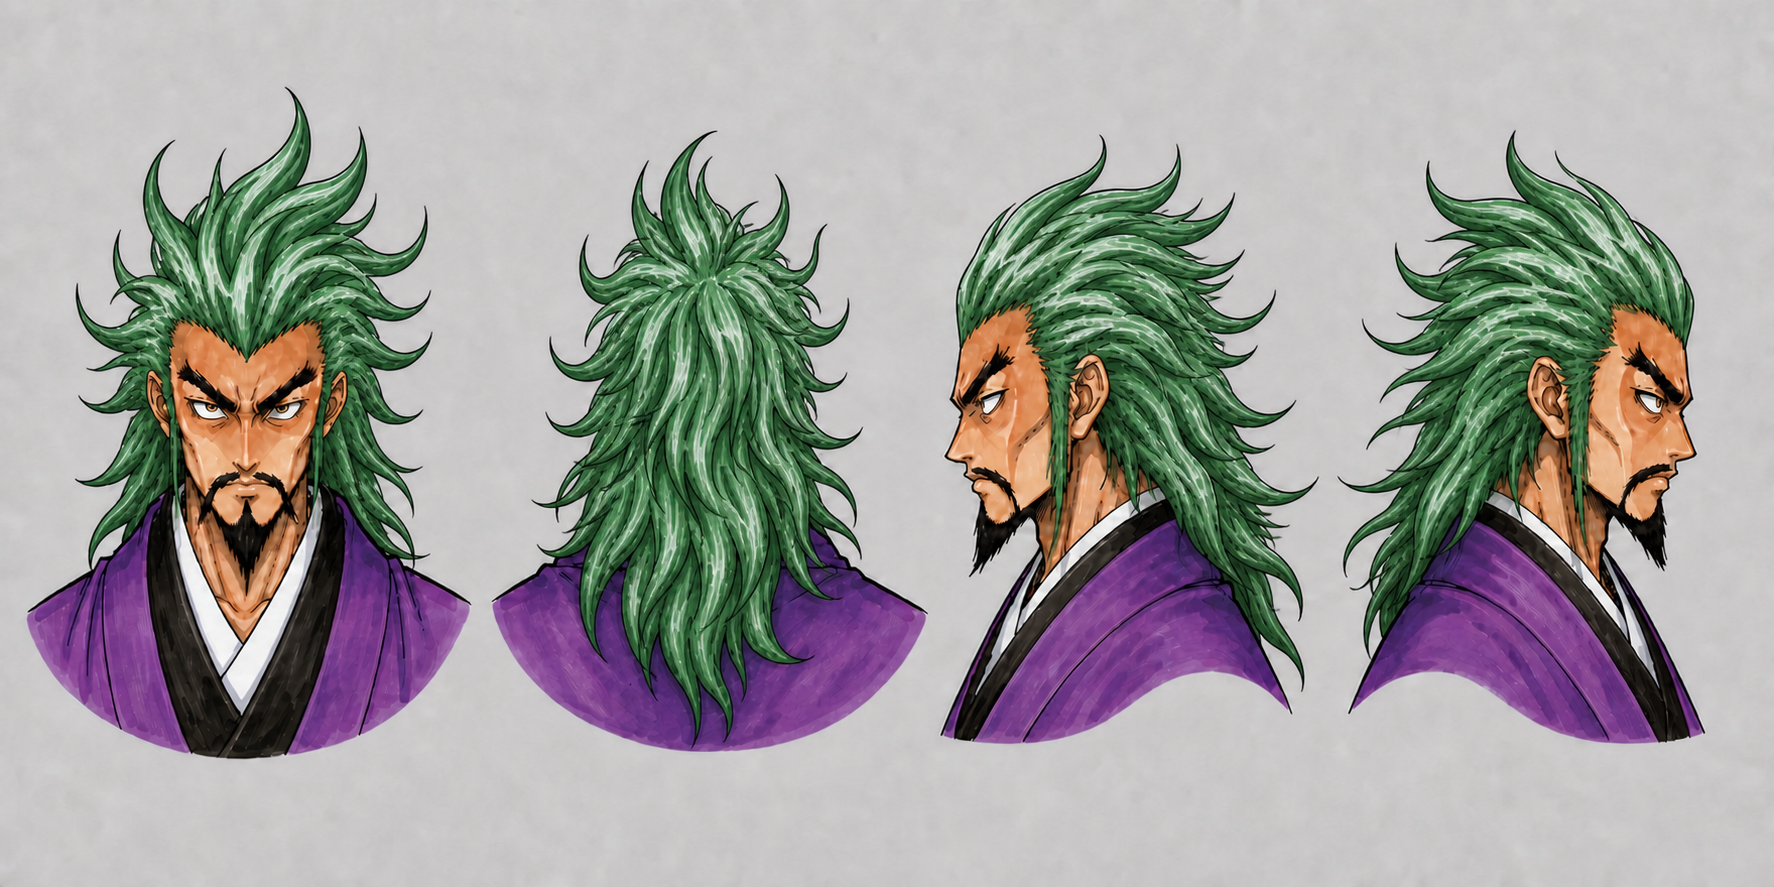
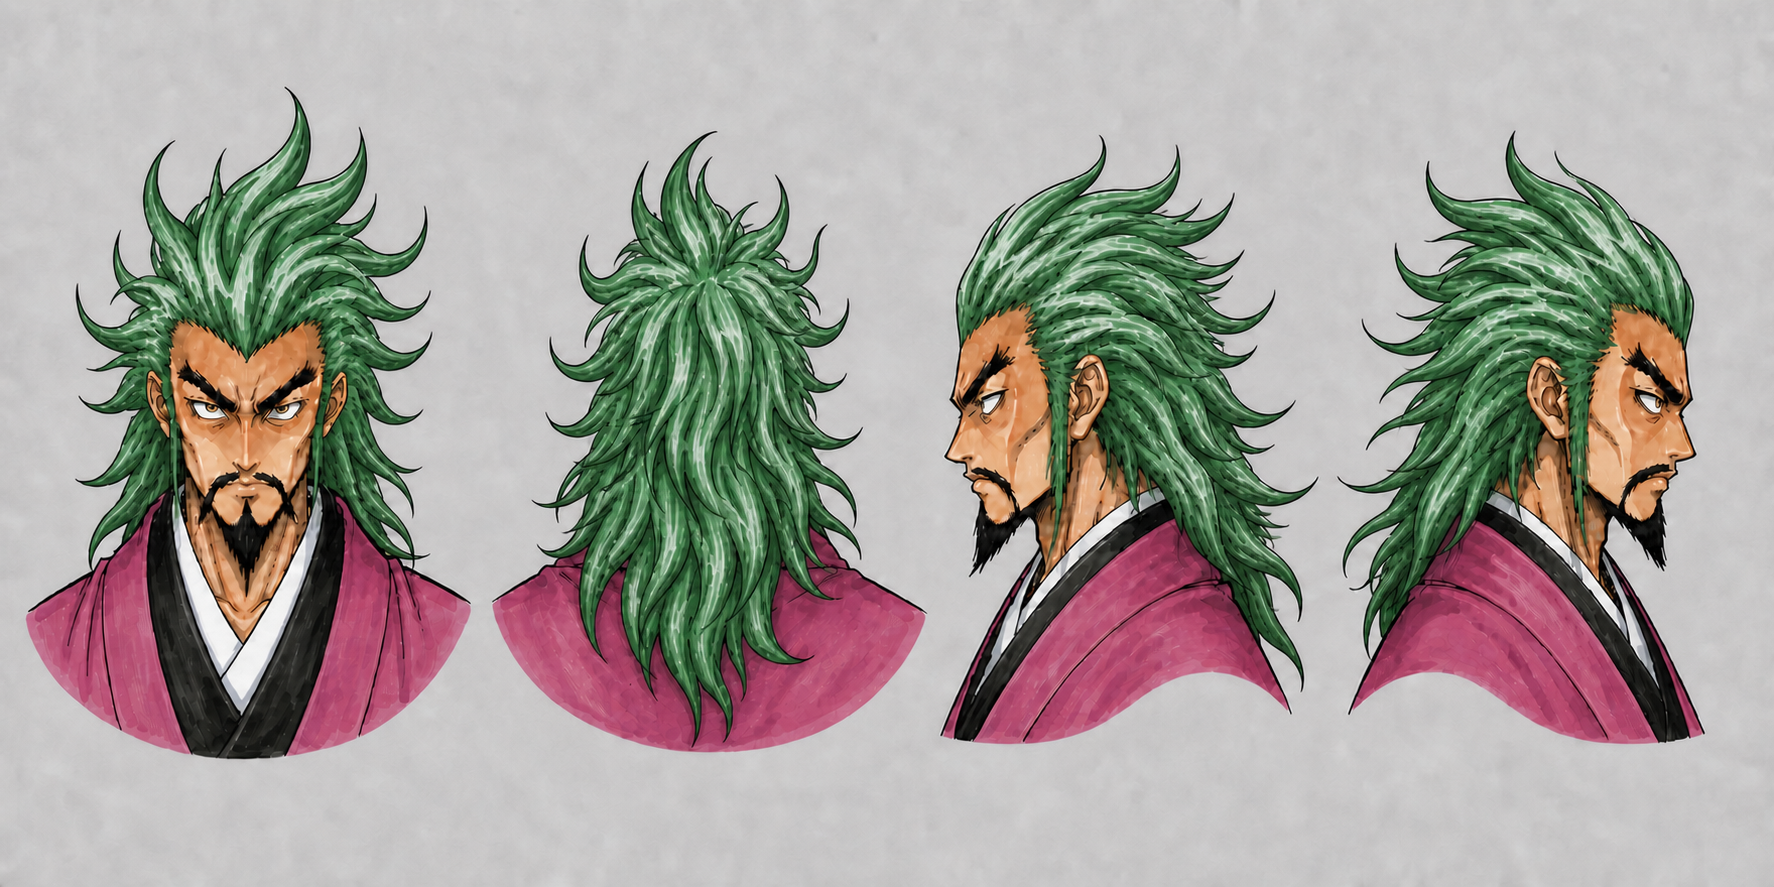
fix(004): 修正公孙胜设定图配色与人物参照
统一道袍为原卡洋红紫配色，并同步中立、原画姿态和头部设定图。\n\n更新兵器表中的正背人物与握持手臂，保留旧版资产和返修提示。

diff --git a/character-model-sheets/characters/004/review-notes.md b/character-model-sheets/characters/004/review-notes.md
@@ -70,3 +70,21 @@
 - [x] 发束仍保持成组可读，没有碎成大量互不连接的微小发丝；六视图与头部四视图使用一致的三维结构。
 - [x] 人物身份、脸型、年龄、胡型、袖口黑边、袖面八卦、左右后衣片、分割太极八卦、六视图与头部四视图顺序均保持不变。
 - 输出：`character-turnaround.png`、`head-sheet.png`；返修前版本分别保留为 `character-turnaround-v8.png`、`head-sheet-v4.png`；状态继续为 `generated`，等待用户批准。
+
+## 2026-08-22 道袍颜色局部返修
+
+- [x] 以 `images/004.png` 原卡为最高颜色依据，把外层道袍从偏冷蓝紫／皇家紫纠正为偏洋红的紫红色：玫红紫／洋红紫主体、洋红与粉紫亮部、酒紫／深紫结构暗部。
+- [x] 中立六视图、原画姿态版六视图与头部四视图肩部衣料均已同步返色；同一张表内色相与综合色阶保持一致。
+- [x] 只改外层道袍颜色；人物身份、脸、绿色头发、黑色八字胡和山羊胡、姿态、六视图与头部视图顺序、服装结构、褶皱、纹样、黑色包边、白色内袖、黄色腰带、淡黄色裤、绑腿、鞋履、剑、线稿、纹理、光照、画布和背景保持不变。
+- [x] 返修前版本分别保留为 `character-turnaround-v10.png`、`character-turnaround-original-pose-v2.png`、`head-sheet-v5.png`。
+- 输出：`character-turnaround.png`、`character-turnaround-original-pose.png`、`head-sheet.png`；状态继续为 `generated`，等待用户批准。
+- 返修提示记录：`robe-color-repair-prompt.txt`。
+
+## 2026-08-22 兵器表人物参照返修
+
+- [x] 右侧正面与背面人物比例参照已改为当前 `character-turnaround.png` 中的同一人物：四十多岁窄长成熟脸、裸头无帽、绿色长发、黑色八字胡加山羊胡、自然肩线与洋红紫／紫红宽袖道袍。
+- [x] 两处握剑手臂已同步当前人物的肤色、袖面八卦、黑色外袖包边、白色内袖与洋红紫配色；抓握姿态、手指接触、握持点和剑的角度保持不变。
+- [x] 删除旧版人物中的紫色高帽、硬挺宽肩、冷蓝紫袍服和错误纹样；人物正／背结构与当前六视图一致。
+- [x] 所有剑身、刃口、剑尖、护手、握柄、剑首、剑鞘、局部结构图、比例、位置、画布和背景保持不变。
+- 输出：`weapon-sheet.png`；返修前版本保留为 `weapon-sheet-v2.png`；状态继续为 `generated`，等待用户批准。
+- 返修提示记录：`weapon-owner-repair-prompt.txt`。
